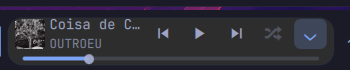
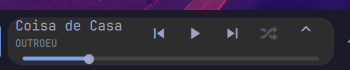
Ampliar o título e reduzir os detalhes do player
Remove a capa e diminui a fonte do artista na cápsula.

diff --git a/components/DeskbandCapsule.qml b/components/DeskbandCapsule.qml
@@ -13,7 +13,6 @@ Item {
     property real displayedPosition: 0
     readonly property real itemSpacing: 3.4
     readonly property color backdrop: hostBar && hostBar.background !== undefined ? hostBar.background : "#1b1d2a"
-    readonly property int artSize: compact ? 18 : 24
     readonly property int buttonSize: compact ? 22 : 26
     signal expandRequested()
     signal seekStarted()
@@ -33,9 +32,8 @@ Item {
         x: 8
         height: root.compact ? parent.height : 26
         spacing: root.itemSpacing
-        AlbumArt { width: root.artSize; height: width; anchors.verticalCenter: parent.verticalCenter; source: root.controller.artUrl; foreground: root.foreground }
         Item {
-            width: Math.max(24, root.width - 16 - root.artSize - root.buttonSize * 5 - root.itemSpacing * 6)
+            width: Math.max(24, root.width - 16 - root.buttonSize * 5 - root.itemSpacing * 6)
             height: root.compact ? 18 : 30
             anchors.verticalCenter: parent.verticalCenter
             Column {
@@ -43,7 +41,7 @@ Item {
                 anchors.verticalCenter: parent.verticalCenter
                 spacing: 1
                 Text { width: parent.width; text: root.controller.title; textFormat: Text.PlainText; elide: Text.ElideRight; color: root.foreground; font.family: root.fontFamily; font.pixelSize: root.compact ? 10 : 11; font.weight: Font.Medium }
-                Text { width: parent.width; visible: !root.compact; text: root.controller.artist; textFormat: Text.PlainText; elide: Text.ElideRight; color: Colors.alpha(root.foreground, 0.64); font.family: root.fontFamily; font.pixelSize: 10 }
+                Text { width: parent.width; visible: !root.compact; text: root.controller.artist; textFormat: Text.PlainText; elide: Text.ElideRight; color: Colors.alpha(root.foreground, 0.64); font.family: root.fontFamily; font.pixelSize: 8 }
             }
             MouseArea {
                 anchors.fill: parent; hoverEnabled: true; acceptedButtons: Qt.NoButton

diff --git a/components/DeskbandPopup.qml b/components/DeskbandPopup.qml
@@ -111,13 +111,12 @@ PopupWindow {
                     required property int number
                     required property string title
                     width: ListView.view.width; height: 34; radius: 6
-                    color: rowHover.containsMouse ? Colors.alpha(root.foreground, 0.08) : "transparent"
+                    color: "transparent"
                     Row {
                         anchors.fill: parent; anchors.leftMargin: 8; anchors.rightMargin: 8; spacing: 10
                         Text { width: 24; height: parent.height; verticalAlignment: Text.AlignVCenter; text: String(number).padStart(2, "0"); color: Colors.alpha(root.foreground, 0.5); font.family: root.fontFamily; font.pixelSize: 10 }
                         Text { width: parent.width - 42; height: parent.height; verticalAlignment: Text.AlignVCenter; text: title; textFormat: Text.PlainText; elide: Text.ElideRight; color: root.foreground; font.family: root.fontFamily; font.pixelSize: 11 }
                     }
-                    MouseArea { id: rowHover; anchors.fill: parent; hoverEnabled: true; acceptedButtons: Qt.NoButton }
                 }
             }
             Text { width: parent.width; text: "Exibe a playlist salva pelo Amberol; a ordem aleatória do player não é publicada."; wrapMode: Text.WordWrap; color: Colors.alpha(root.foreground, 0.58); font.family: root.fontFamily; font.pixelSize: 9 }

diff --git a/README.md b/README.md
@@ -1,6 +1,6 @@
 # Amberol Deskband
 
-A single music capsule for **Omarchy Quattro** and the customized **WinDoc / Omarchy Dock** host. Album art, track and artist, previous/play/next, compact seek and a popup listing the playlist saved by Amberol. Written in QML, using Quickshell services; no changes to Amberol are required.
+A single music capsule for **Omarchy Quattro** and the customized **WinDoc / Omarchy Dock** host. Track and artist, previous/play/next, compact seek and a popup listing the playlist saved by Amberol. Written in QML, using Quickshell services; no changes to Amberol are required.
 
 ![Amberol Deskband running in WinDoc](preview.png)
 
@@ -32,7 +32,7 @@ Installation refuses unmanaged path collisions and an unsupported WinDoc host. T
 
 ## Controls and player selection
 
-The capsule remains present for a paused track. In the WinDoc dock, a compact draggable progress bar sits below the controls; the top bar keeps its existing single-line height. The chevron opens a scrollable list from Amberol's saved playlist. The list refreshes when opened and when Amberol updates the playlist file. It shows filenames in the last saved playlist order; it cannot promise the exact upcoming order after shuffle, and entries cannot be selected because Amberol does not expose MPRIS TrackList controls. Click outside or use the close button to dismiss it. Long titles use an ellipsis; hover shows the full title with the host tooltip.
+The capsule remains present for a paused track and omits album art to give more room to the title. The artist line uses a 20% smaller font. In the WinDoc dock, a compact draggable progress bar sits below the controls; the top bar keeps its existing single-line height. The chevron opens a scrollable list from Amberol's saved playlist. The list refreshes when opened and when Amberol updates the playlist file. It shows filenames in the last saved playlist order; it cannot promise the exact upcoming order after shuffle. Track selection is unavailable with Amberol 2026.1 because it does not expose MPRIS TrackList controls or a working URI-open action. Click outside or use the close button to dismiss it. Long titles use an ellipsis; hover shows the full title with the host tooltip.
 
 Amberol takes priority while running, including when paused. An open Amberol with no track collapses the capsule. When Amberol is absent, a controllable MPRIS player with a track is selected, preferring a playing source and using a stable name order to break ties. Disconnection collapses the widget and closes the panel; reconnection is handled reactively.
 
